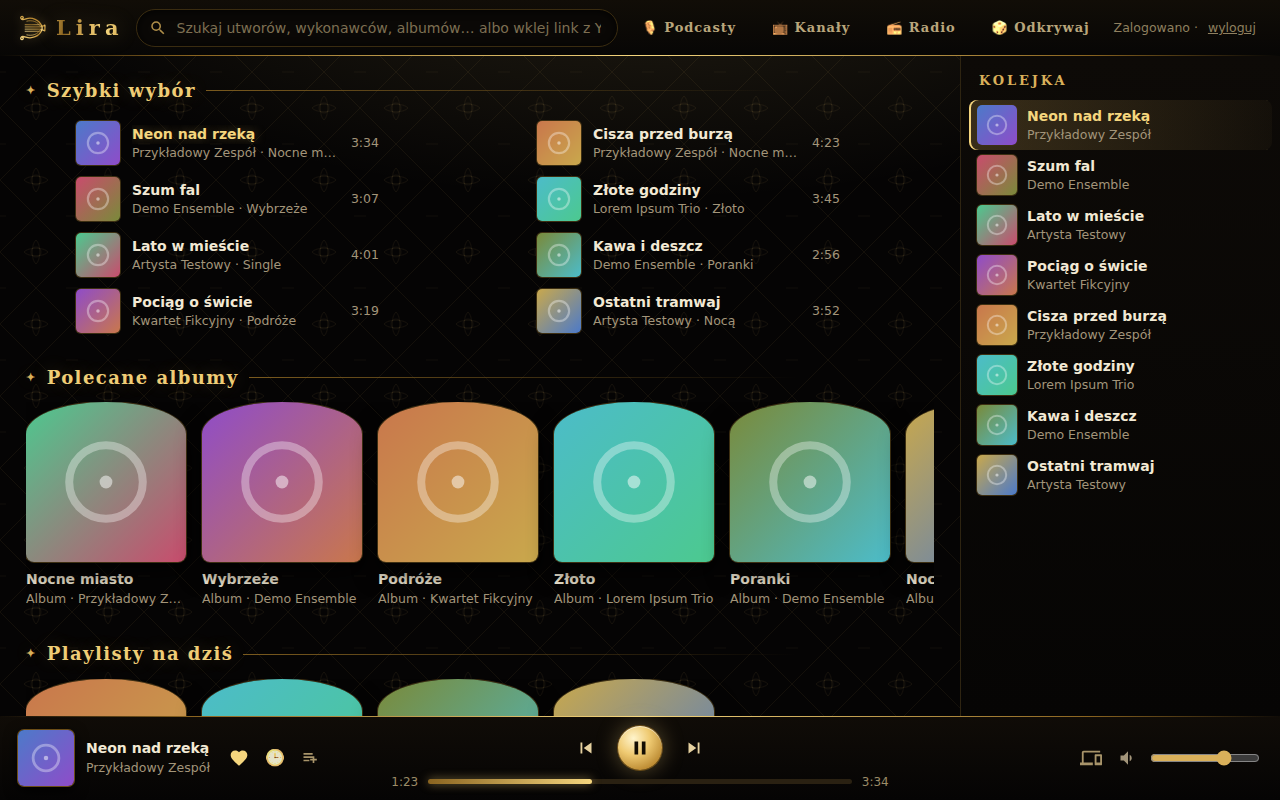
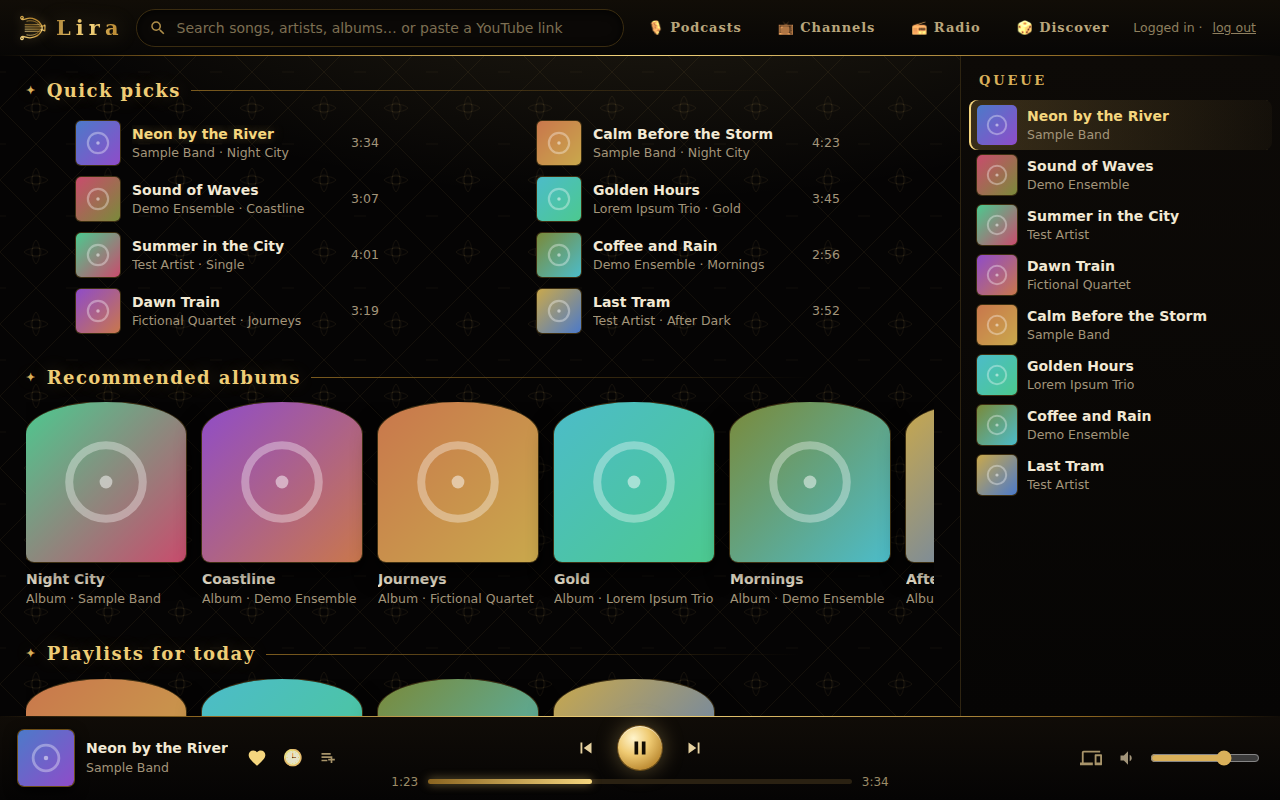
README: English first, Polish in README.pl.md

diff --git a/README.md b/README.md
@@ -1,102 +1,66 @@
-# Lira — okno i zasobnik odtwarzacza muzyki
+# Lira — music player window & tray
 
-![Lira — zrzut z przykładowymi danymi](docs/screenshot.png)
+🇵🇱 [Polska wersja](README.pl.md)
 
-*Zrzut z przykładowymi, zmyślonymi danymi (mock API).*
+![Lira — screenshot with sample data](docs/screenshot.png)
 
-Dwie małe aplikacje na pulpit Linuksa (Rust) do odtwarzacza muzyki **Lira**:
+*Screenshot with mock data — English UI preview; the English interface ships with the upcoming lira-serwer release.*
 
-- **`muzyka-okno`** — okno (GTK3 + WebKitGTK) z interfejsem odtwarzacza, bez belki tytułowej (górny pasek strony służy za belkę), logowanie do YouTube Music w oknie.
-- **`muzyka-zasobnik`** — ikona w zasobniku (StatusNotifierItem) + sterowanie MPRIS: graj/pauza, następny/poprzedni, „Graj na:” (wybór urządzenia), otwarcie okna.
+Two small Linux desktop apps (Rust) for the **Lira** music player:
 
-> **Ważne:** to tylko klienci. Oba programy wymagają backendu **`lira-serwer`**
-> (lokalny serwer HTTP na `127.0.0.1:26540`, który wyszukuje i odtwarza muzykę przez
-> `mpv`/`yt-dlp`). Serwer **nie jest częścią tej paczki** — pojawi się w osobnej
-> wersji. Bez niego okno pokaże pustą stronę/błąd połączenia, a zasobnik będzie nieaktywny.
+- **`muzyka-okno`** (the window app) — a window (GTK3 + WebKitGTK) with the player UI and no title bar (the page's top bar doubles as the title bar); YouTube Music sign-in happens inside the window.
+- **`muzyka-zasobnik`** (the tray app) — a tray icon (StatusNotifierItem) + MPRIS controls: play/pause, next/previous, “Play on:” (device picker), open the window.
 
-## Jak Spotify, tylko u Ciebie w domu
+> **Important:** these are clients only. Both programs require the **`lira-serwer`** backend
+> (a local HTTP server on `127.0.0.1:26540` that searches for and plays music via
+> `mpv`/`yt-dlp`). The server is **not part of this package** — it will ship in a separate
+> release. Without it the window shows a blank page/connection error and the tray icon stays inactive.
 
-Masz domowy serwer (mini-PC, Raspberry Pi, NAS z Linuxem)? Stawiasz na nim backend
-`lira-serwer` raz, a potem słuchasz z każdego urządzenia w domu:
+## Like Spotify, on your own home server
 
-- **okno na Linuxie** (`muzyka-okno`) i **ikona w zasobniku** (`muzyka-zasobnik`) z tej paczki,
-- **Windows** i **Android** — osobne aplikacje-klienci obsługiwane przez backend (komputer z Windows lub telefon może być „głośnikiem”); nie są częścią tej paczki,
-- **„Graj na:”** — przełączasz, na którym urządzeniu gra muzyka, z kolejką i miejscem w utworze (jak Spotify Connect); telefon może grać to samo co serwer, zsynchronizowane,
-- **wspólna kolejka** i stan odtwarzania widoczne na wszystkich urządzeniach,
-- **Twoje playlisty i polubione** z własnego konta YouTube Music (logujesz się w oknie), odtwarzanie przez `mpv` bez reklam,
-- **radio** internetowe (ulubione stacje), **podcasty** i kanały YouTube (lista „Do posłuchania”), zakładka **Odkrywaj** z podpowiedziami.
+Got a home server (a mini-PC, Raspberry Pi, a Linux NAS)? Set up the `lira-serwer` backend
+on it once, then listen from any device in your home:
 
-Okno łączy się z adresem z `MUZYKA_URL`, np. `MUZYKA_URL=http://serwer-domowy:26540/ muzyka-okno`.
-Do dostępu spoza domu używaj VPN/tunelu — nie wystawiaj backendu publicznie.
+- the **Linux window** (`muzyka-okno`) and the **tray icon** (`muzyka-zasobnik`) from this package,
+- **Windows** and **Android** — separate client apps served by the backend (a Windows PC or a phone can act as a “speaker”); not part of this package,
+- **“Play on:”** — switch which device is playing, keeping the queue and the position in the track (like Spotify Connect); a phone can play the same thing as the server, in sync,
+- a **shared queue** and playback state visible on every device,
+- **your playlists and liked songs** from your own YouTube Music account (you sign in inside the window), played through `mpv` without ads,
+- internet **radio** (favourite stations), **podcasts** and YouTube channels (a “Listen later” list), and a **Discover** tab with suggestions.
 
-**Bez serwera w domu też się da** — backend uruchamiasz na tym samym komputerze
-(`127.0.0.1:26540`, ustawienie domyślne okna i zasobnika).
+The window connects to the address in `MUZYKA_URL`, e.g. `MUZYKA_URL=http://home-server:26540/ muzyka-okno`.
+For access from outside your home, use a VPN/tunnel — don't expose the backend publicly.
 
-## Funkcje
-- okno: interfejs serwera w WebKitGTK, własne przyciski okna, przekazanie ciasteczek logowania YouTube Music do lokalnego serwera (`/api/zaloguj`)
-- zamknięcie okna nie zatrzymuje muzyki — sterowanie zostaje w zasobniku i klawiszach multimediów
-- zasobnik: menu z bieżącym utworem, sterowanie, wybór urządzenia, MPRIS (klawisze multimediów, aplet dźwięku)
+**No home server? That works too** — run the backend on the same computer
+(`127.0.0.1:26540`, the default for both the window and the tray).
 
-## Wymagania
-- backend `lira-serwer` na `127.0.0.1:26540` (osobny projekt, zob. wyżej)
-- Linux z GTK3 + WebKitGTK 4.1 (`libwebkit2gtk-4.1-dev`, `libgtk-3-dev`, `libsoup-3.0-dev`), D-Bus, Rust (rustup)
-- zasobnik obsługujący StatusNotifierItem
+## Features
+- window (`muzyka-okno`): the server's UI in WebKitGTK, custom window buttons, YouTube Music sign-in cookies handed over to the local server (`/api/zaloguj`)
+- closing the window doesn't stop the music — controls stay available in the tray and on the media keys
+- tray (`muzyka-zasobnik`): menu with the current track, playback controls, device picker, MPRIS (media keys, sound applet)
 
-## Budowanie
+## Requirements
+- the `lira-serwer` backend on `127.0.0.1:26540` (a separate project, see above)
+- Linux with GTK3 + WebKitGTK 4.1 (`libwebkit2gtk-4.1-dev`, `libgtk-3-dev`, `libsoup-3.0-dev`), D-Bus, Rust (rustup)
+- a tray that supports StatusNotifierItem
+
+## Building
 ```sh
 (cd muzyka-okno && cargo build --release && cp target/release/muzyka-okno ~/.local/bin/)
 (cd muzyka-zasobnik && cargo build --release && cp target/release/muzyka-zasobnik ~/.local/bin/)
 ```
-Zasobnik uruchamia okno z `~/.local/bin/muzyka-okno`.
+The tray launches the window from `~/.local/bin/muzyka-okno`.
 
-## Konfiguracja
-- `MUZYKA_URL` — adres interfejsu dla okna (domyślnie `http://127.0.0.1:26540/`)
-- adres serwera w zasobniku: stała `SERWER` w `muzyka-zasobnik/src/main.rs`
-- ciasteczka logowania trzyma backend, nie te programy
+## Configuration
+- `MUZYKA_URL` — UI address for the window (default `http://127.0.0.1:26540/`)
+- server address used by the tray: the `SERWER` constant in `muzyka-zasobnik/src/main.rs`
+- sign-in cookies are stored by the backend, not by these programs
 
----
-
-## English
-
-Two small Linux desktop apps (Rust) for the **Lira** music player:
-
-- **`muzyka-okno`** — a borderless GTK3 + WebKitGTK window with the player UI; YouTube Music sign-in happens inside the window.
-- **`muzyka-zasobnik`** — a tray icon (StatusNotifierItem) + MPRIS controls: play/pause, next/previous, “Play on:” device picker, open window.
-
-> **Important:** these are clients only. Both require the **`lira-serwer`** backend
-> (a local HTTP server on `127.0.0.1:26540` that searches and plays music via
-> `mpv`/`yt-dlp`). The server is **not included** — it will be published separately.
-> Without it the window shows a connection error and the tray stays inactive.
-
-### Like Spotify, on your own home server
-
-Got a home server (mini-PC, Raspberry Pi, a Linux NAS)? Set up the `lira-serwer` backend
-on it once and listen from any device at home:
-
-- the **Linux window** (`muzyka-okno`) and **tray icon** (`muzyka-zasobnik`) from this package,
-- **Windows** and **Android** — separate client apps served by the backend (a Windows PC or a phone can act as a “speaker”); not part of this package,
-- **“Play on:”** — switch which device plays, keeping the queue and position (like Spotify Connect); a phone can play in sync with the server,
-- a **shared queue** and playback state on every device,
-- **your playlists and likes** from your own YouTube Music account (sign in inside the window), played through `mpv` without ads,
-- internet **radio** (favourite stations), **podcasts** and YouTube channels (“Listen later” list), a **Discover** tab with suggestions.
-
-Point the window at the server with `MUZYKA_URL`, e.g. `MUZYKA_URL=http://home-server:26540/ muzyka-okno`.
-Use a VPN/tunnel for access from outside — don't expose the backend publicly.
-
-**No home server? That works too** — run the backend on the same computer
-(`127.0.0.1:26540`, the default for the window and tray).
-
-### Requirements
-- the `lira-serwer` backend on `127.0.0.1:26540` (separate project)
-- Linux with GTK3 + WebKitGTK 4.1, D-Bus, Rust; a StatusNotifierItem tray
-
-### Building / configuration
-See above. `MUZYKA_URL` overrides the window URL; the tray server address is the `SERWER` constant.
+## Status / Roadmap
+The UI is currently in Polish; English UI and the self-hosted backend (lira-serwer) are coming in the next release.
 
 ---
-
-**Zastrzeżenie:** Prywatny projekt hobbystyczny, tworzony do nauki i własnego użytku. Nie jest powiązany z YouTube ani Google. Korzysta z otwartych narzędzi (m.in. mpv, yt-dlp, WebKitGTK). Każdy użytkownik loguje się własnym kontem i sam odpowiada za zgodność z regulaminem serwisu. Oprogramowanie udostępniane „tak jak jest”, bez gwarancji.
 
 **Disclaimer:** Private hobby project, built for learning and personal use. Not affiliated with YouTube or Google. Built with open-source tools (incl. mpv, yt-dlp, WebKitGTK). Every user signs in with their own account and is responsible for complying with the service's terms. Provided “as is”, without warranty of any kind.
 
-Licencja / License: MIT — see [LICENSE](LICENSE).
+License: MIT — see [LICENSE](LICENSE).

diff --git a/README.pl.md b/README.pl.md
@@ -1,0 +1,66 @@
+# Lira — okno i zasobnik odtwarzacza muzyki
+
+🇬🇧 [English version](README.md)
+
+![Lira — zrzut z przykładowymi danymi](docs/screenshot.png)
+
+*Zrzut z przykładowymi danymi — podgląd angielskiego interfejsu, który wejdzie z najbliższą wersją lira-serwer.*
+
+Dwie małe aplikacje na pulpit Linuksa (Rust) do odtwarzacza muzyki **Lira**:
+
+- **`muzyka-okno`** — okno (GTK3 + WebKitGTK) z interfejsem odtwarzacza, bez belki tytułowej (górny pasek strony służy za belkę), logowanie do YouTube Music w oknie.
+- **`muzyka-zasobnik`** — ikona w zasobniku (StatusNotifierItem) + sterowanie MPRIS: graj/pauza, następny/poprzedni, „Graj na:” (wybór urządzenia), otwarcie okna.
+
+> **Ważne:** to tylko klienci. Oba programy wymagają backendu **`lira-serwer`**
+> (lokalny serwer HTTP na `127.0.0.1:26540`, który wyszukuje i odtwarza muzykę przez
+> `mpv`/`yt-dlp`). Serwer **nie jest częścią tej paczki** — pojawi się w osobnej
+> wersji. Bez niego okno pokaże pustą stronę/błąd połączenia, a zasobnik będzie nieaktywny.
+
+## Jak Spotify, tylko u Ciebie w domu
+
+Masz domowy serwer (mini-PC, Raspberry Pi, NAS z Linuxem)? Stawiasz na nim backend
+`lira-serwer` raz, a potem słuchasz z każdego urządzenia w domu:
+
+- **okno na Linuxie** (`muzyka-okno`) i **ikona w zasobniku** (`muzyka-zasobnik`) z tej paczki,
+- **Windows** i **Android** — osobne aplikacje-klienci obsługiwane przez backend (komputer z Windows lub telefon może być „głośnikiem”); nie są częścią tej paczki,
+- **„Graj na:”** — przełączasz, na którym urządzeniu gra muzyka, z kolejką i miejscem w utworze (jak Spotify Connect); telefon może grać to samo co serwer, zsynchronizowane,
+- **wspólna kolejka** i stan odtwarzania widoczne na wszystkich urządzeniach,
+- **Twoje playlisty i polubione** z własnego konta YouTube Music (logujesz się w oknie), odtwarzanie przez `mpv` bez reklam,
+- **radio** internetowe (ulubione stacje), **podcasty** i kanały YouTube (lista „Do posłuchania”), zakładka **Odkrywaj** z podpowiedziami.
+
+Okno łączy się z adresem z `MUZYKA_URL`, np. `MUZYKA_URL=http://serwer-domowy:26540/ muzyka-okno`.
+Do dostępu spoza domu używaj VPN/tunelu — nie wystawiaj backendu publicznie.
+
+**Bez serwera w domu też się da** — backend uruchamiasz na tym samym komputerze
+(`127.0.0.1:26540`, ustawienie domyślne okna i zasobnika).
+
+## Funkcje
+- okno: interfejs serwera w WebKitGTK, własne przyciski okna, przekazanie ciasteczek logowania YouTube Music do lokalnego serwera (`/api/zaloguj`)
+- zamknięcie okna nie zatrzymuje muzyki — sterowanie zostaje w zasobniku i klawiszach multimediów
+- zasobnik: menu z bieżącym utworem, sterowanie, wybór urządzenia, MPRIS (klawisze multimediów, aplet dźwięku)
+
+## Wymagania
+- backend `lira-serwer` na `127.0.0.1:26540` (osobny projekt, zob. wyżej)
+- Linux z GTK3 + WebKitGTK 4.1 (`libwebkit2gtk-4.1-dev`, `libgtk-3-dev`, `libsoup-3.0-dev`), D-Bus, Rust (rustup)
+- zasobnik obsługujący StatusNotifierItem
+
+## Budowanie
+```sh
+(cd muzyka-okno && cargo build --release && cp target/release/muzyka-okno ~/.local/bin/)
+(cd muzyka-zasobnik && cargo build --release && cp target/release/muzyka-zasobnik ~/.local/bin/)
+```
+Zasobnik uruchamia okno z `~/.local/bin/muzyka-okno`.
+
+## Konfiguracja
+- `MUZYKA_URL` — adres interfejsu dla okna (domyślnie `http://127.0.0.1:26540/`)
+- adres serwera w zasobniku: stała `SERWER` w `muzyka-zasobnik/src/main.rs`
+- ciasteczka logowania trzyma backend, nie te programy
+
+## Stan / plany
+Interfejs jest obecnie po polsku; angielski interfejs i samodzielnie hostowany backend (lira-serwer) pojawią się w następnym wydaniu.
+
+---
+
+**Zastrzeżenie:** Prywatny projekt hobbystyczny, tworzony do nauki i własnego użytku. Nie jest powiązany z YouTube ani Google. Korzysta z otwartych narzędzi (m.in. mpv, yt-dlp, WebKitGTK). Każdy użytkownik loguje się własnym kontem i sam odpowiada za zgodność z regulaminem serwisu. Oprogramowanie udostępniane „tak jak jest”, bez gwarancji.
+
+Licencja: MIT — zob. [LICENSE](LICENSE).
